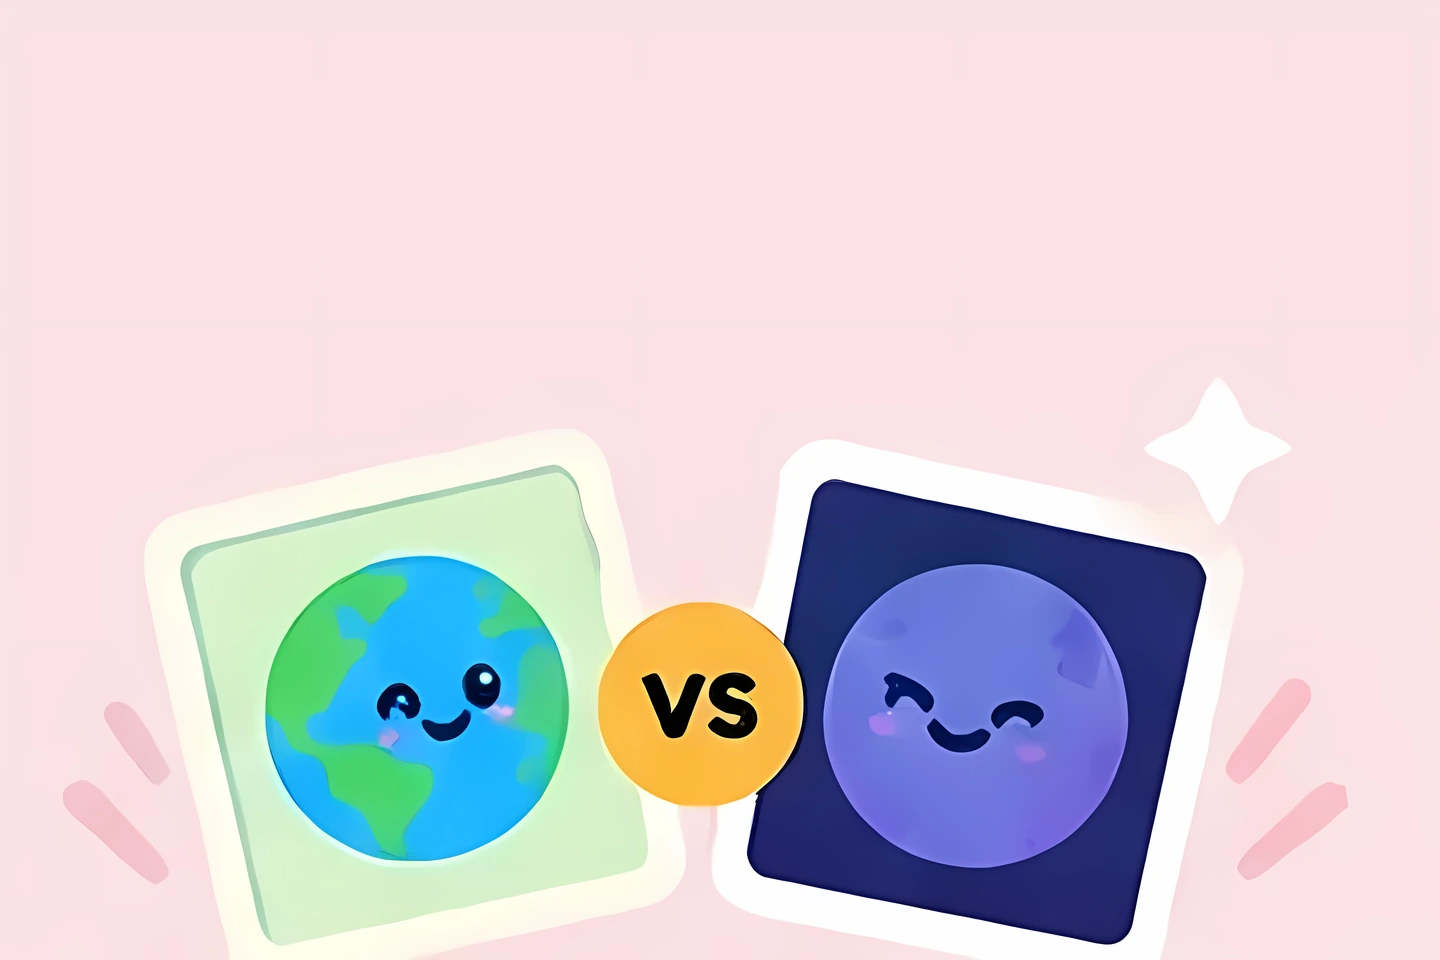
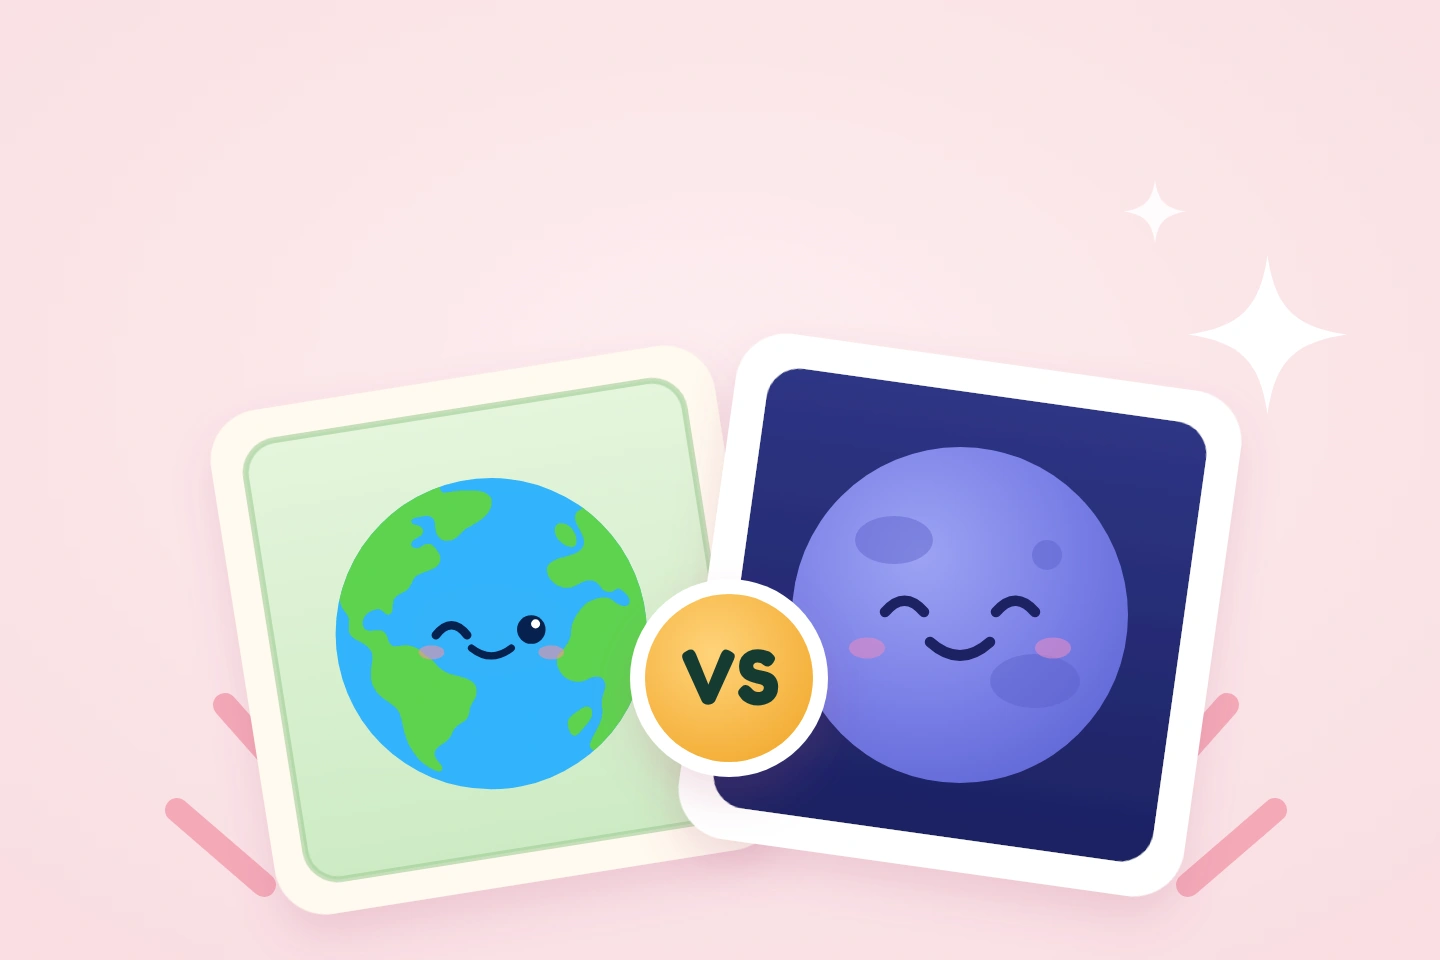
Redraw the World Duel illustration as vector
The 720 px source stayed soft and blocky even after upscaling. The new
version is drawn in SVG with the Roviko globe logo, so it is as sharp as
the text; the feed slide and the Games story using it are re-rendered.

Claude-Session: https://claude.ai/code/session_01SfFHtYc2VFGvwAVy25rhvs

diff --git a/social/roviko-posts/assets/vector/world-duel.html b/social/roviko-posts/assets/vector/world-duel.html
@@ -1,0 +1,56 @@
+<!doctype html><meta charset="utf-8">
+<style>@font-face{font-family:Fredoka;src:url(../fonts/fredoka-latin-wght-normal.woff2) format('woff2');font-weight:300 700}
+html,body{margin:0;background:#FBE3E6}svg{display:block}</style>
+<!-- World Duel, redrawn as vector after 04-spelillustraties/world-duel.png so it stays sharp at any size. -->
+<svg id="art" xmlns="http://www.w3.org/2000/svg" xmlns:xlink="http://www.w3.org/1999/xlink" viewBox="0 0 960 640" width="1440" height="960">
+  <defs>
+    <radialGradient id="bg" cx="50%" cy="40%" r="75%"><stop offset="0" stop-color="#FDEEF0"/><stop offset="1" stop-color="#F9DDE2"/></radialGradient>
+    <linearGradient id="green" x1="0" y1="0" x2="0" y2="1"><stop offset="0" stop-color="#E4F5DC"/><stop offset="1" stop-color="#CDEBC4"/></linearGradient>
+    <linearGradient id="navy" x1="0" y1="0" x2="0" y2="1"><stop offset="0" stop-color="#2E3585"/><stop offset="1" stop-color="#1D2263"/></linearGradient>
+    <radialGradient id="planet" cx="38%" cy="32%" r="75%"><stop offset="0" stop-color="#9DA3F4"/><stop offset=".6" stop-color="#7A7FE6"/><stop offset="1" stop-color="#6168D6"/></radialGradient>
+    <radialGradient id="gold" cx="40%" cy="35%" r="70%"><stop offset="0" stop-color="#FFD37A"/><stop offset="1" stop-color="#F3AD35"/></radialGradient>
+    <filter id="soft" x="-20%" y="-20%" width="140%" height="150%"><feDropShadow dx="0" dy="14" stdDeviation="14" flood-color="#B2567A" flood-opacity=".18"/></filter>
+  </defs>
+  <rect width="960" height="640" fill="url(#bg)"/>
+  <!-- motion marks -->
+  <g stroke="#F4A9B8" stroke-width="16" stroke-linecap="round" fill="none">
+    <path d="M150 470 196 522"/><path d="M118 540 176 590"/>
+    <path d="M818 470 772 522"/><path d="M850 540 792 590"/>
+  </g>
+  <!-- left card: Roviko -->
+  <g transform="rotate(-9 330 420)" filter="url(#soft)">
+    <rect x="160" y="250" width="340" height="340" rx="34" fill="#FFF9EF"/>
+    <rect x="182" y="272" width="296" height="296" rx="22" fill="url(#green)"/>
+    <rect x="182" y="272" width="296" height="296" rx="22" fill="none" stroke="#9FCB95" stroke-width="4" opacity=".6"/>
+  </g>
+  <g transform="translate(206 300) scale(0.95)">
+    <image href="../roviko-globe.svg" width="256" height="256"/>
+    <!-- wink face over the logo's own face -->
+    <ellipse cx="128" cy="126" rx="56" ry="32" fill="#33b3fa"/>
+    <path d="M89 130q11 -14 22 0" stroke="#06224f" stroke-width="6" stroke-linecap="round" fill="none"/>
+    <circle cx="156" cy="126" r="10" fill="#06224f"/><circle cx="159" cy="122" r="3.2" fill="#fff"/>
+    <path d="M114 139q14 11 28 0" stroke="#06224f" stroke-width="5" stroke-linecap="round" fill="none"/>
+    <g fill="#ff8fa3" opacity=".55"><ellipse cx="86" cy="142" rx="9" ry="5"/><ellipse cx="170" cy="142" rx="9" ry="5"/></g>
+  </g>
+  <!-- right card: the computer's planet -->
+  <g transform="rotate(8 640 410)" filter="url(#soft)">
+    <rect x="470" y="240" width="340" height="340" rx="34" fill="#FFFFFF"/>
+    <rect x="492" y="262" width="296" height="296" rx="22" fill="url(#navy)"/>
+  </g>
+  <g transform="translate(640 410)">
+    <circle r="112" fill="url(#planet)"/>
+    <g fill="#5A60C9" opacity=".45"><ellipse cx="-44" cy="-50" rx="26" ry="16"/><ellipse cx="50" cy="44" rx="30" ry="18"/><circle cx="58" cy="-40" r="10"/></g>
+    <path d="M-50 -2q13 -15 26 0M24 -2q13 -15 26 0" stroke="#1D2263" stroke-width="7" stroke-linecap="round" fill="none"/>
+    <path d="M-20 18q20 18 40 0" stroke="#1D2263" stroke-width="7" stroke-linecap="round" fill="none"/>
+    <g fill="#E58BC6" opacity=".6"><ellipse cx="-62" cy="22" rx="12" ry="7"/><ellipse cx="62" cy="22" rx="12" ry="7"/></g>
+  </g>
+  <!-- sparkle -->
+  <path d="M845 170C850 205 863 218 898 223 863 228 850 241 845 276 840 241 827 228 792 223 827 218 840 205 845 170Z" fill="#FFFFFF"/>
+  <path d="M770 120C772 134 777 139 791 141 777 143 772 148 770 162 768 148 763 143 749 141 763 139 768 134 770 120Z" fill="#FFFFFF" opacity=".85"/>
+  <!-- VS badge -->
+  <g transform="translate(486 452)" filter="url(#soft)">
+    <circle r="66" fill="#FFFFFF"/>
+    <circle r="56" fill="url(#gold)"/>
+    <text y="17" text-anchor="middle" font-family="Fredoka" font-weight="700" font-size="52" fill="#163B32">VS</text>
+  </g>
+</svg>
